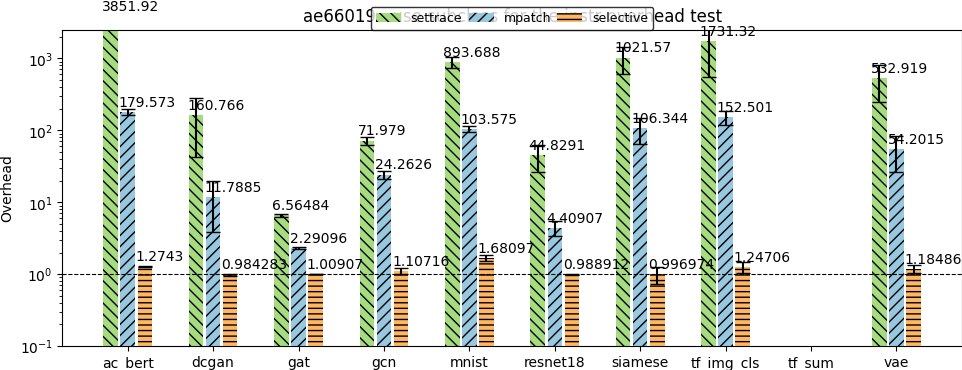
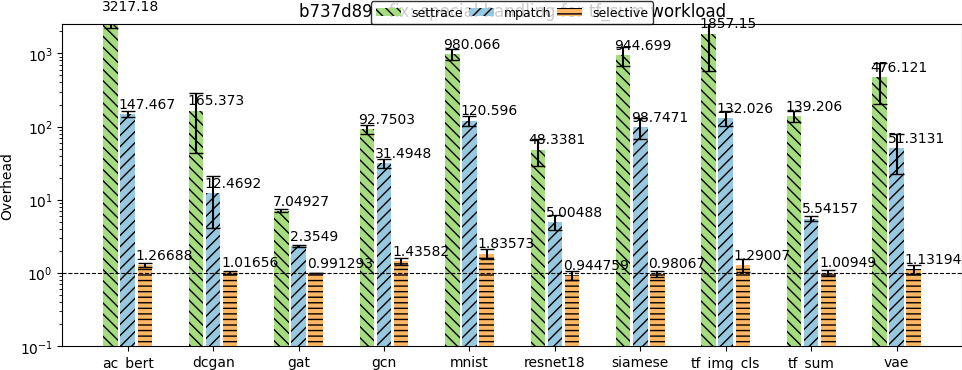
Update benchmark plots for c683940

diff --git a/docs/benchmarks.md b/docs/benchmarks.md
@@ -1,9 +1,6 @@
 # Performance Benchmarks
 
-Latest benchmark results (updated: 2026-02-10 15:39:23 UTC, commit: 5c688c2)
-
-## Instrumentation Overhead - Micro Benchmarks
-![Micro Benchmark Results](assets/images/overhead_micro.png)
+Latest benchmark results (updated: 2026-02-12 19:10:56 UTC, commit: c683940)
 
 ## End-to-End Performance Impact
 ![E2E Benchmark Results](assets/images/overhead_macro.png)
